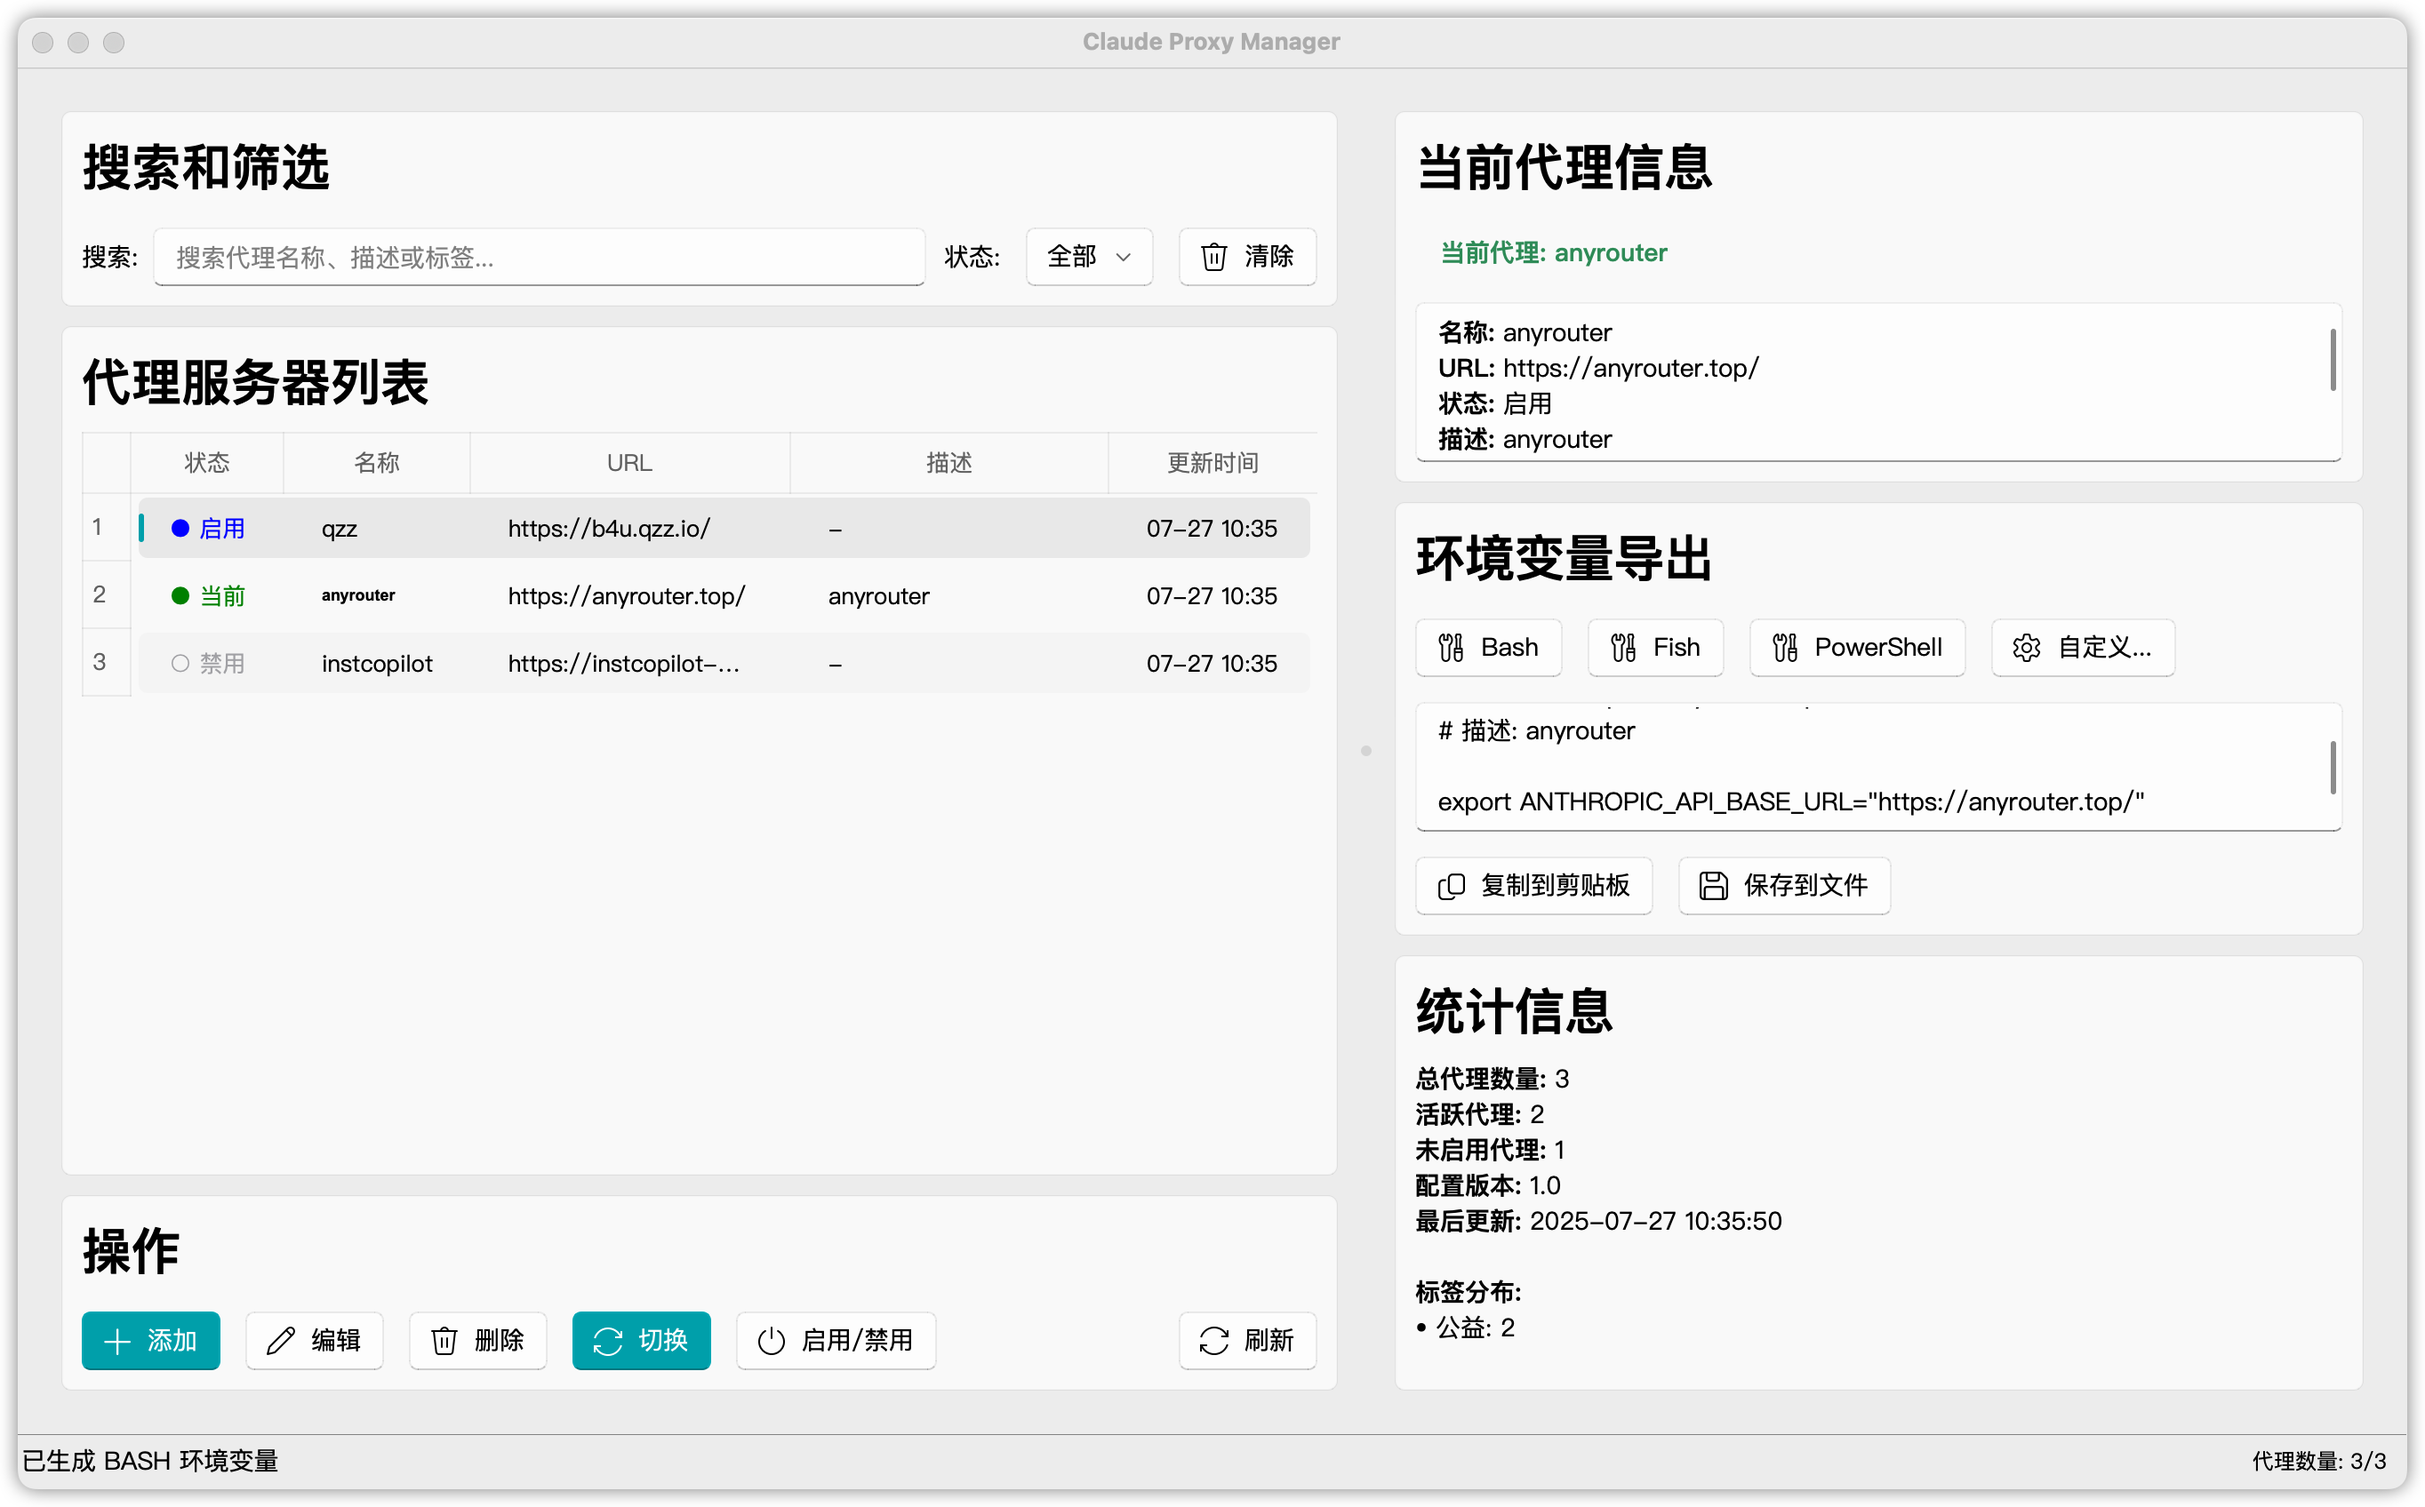
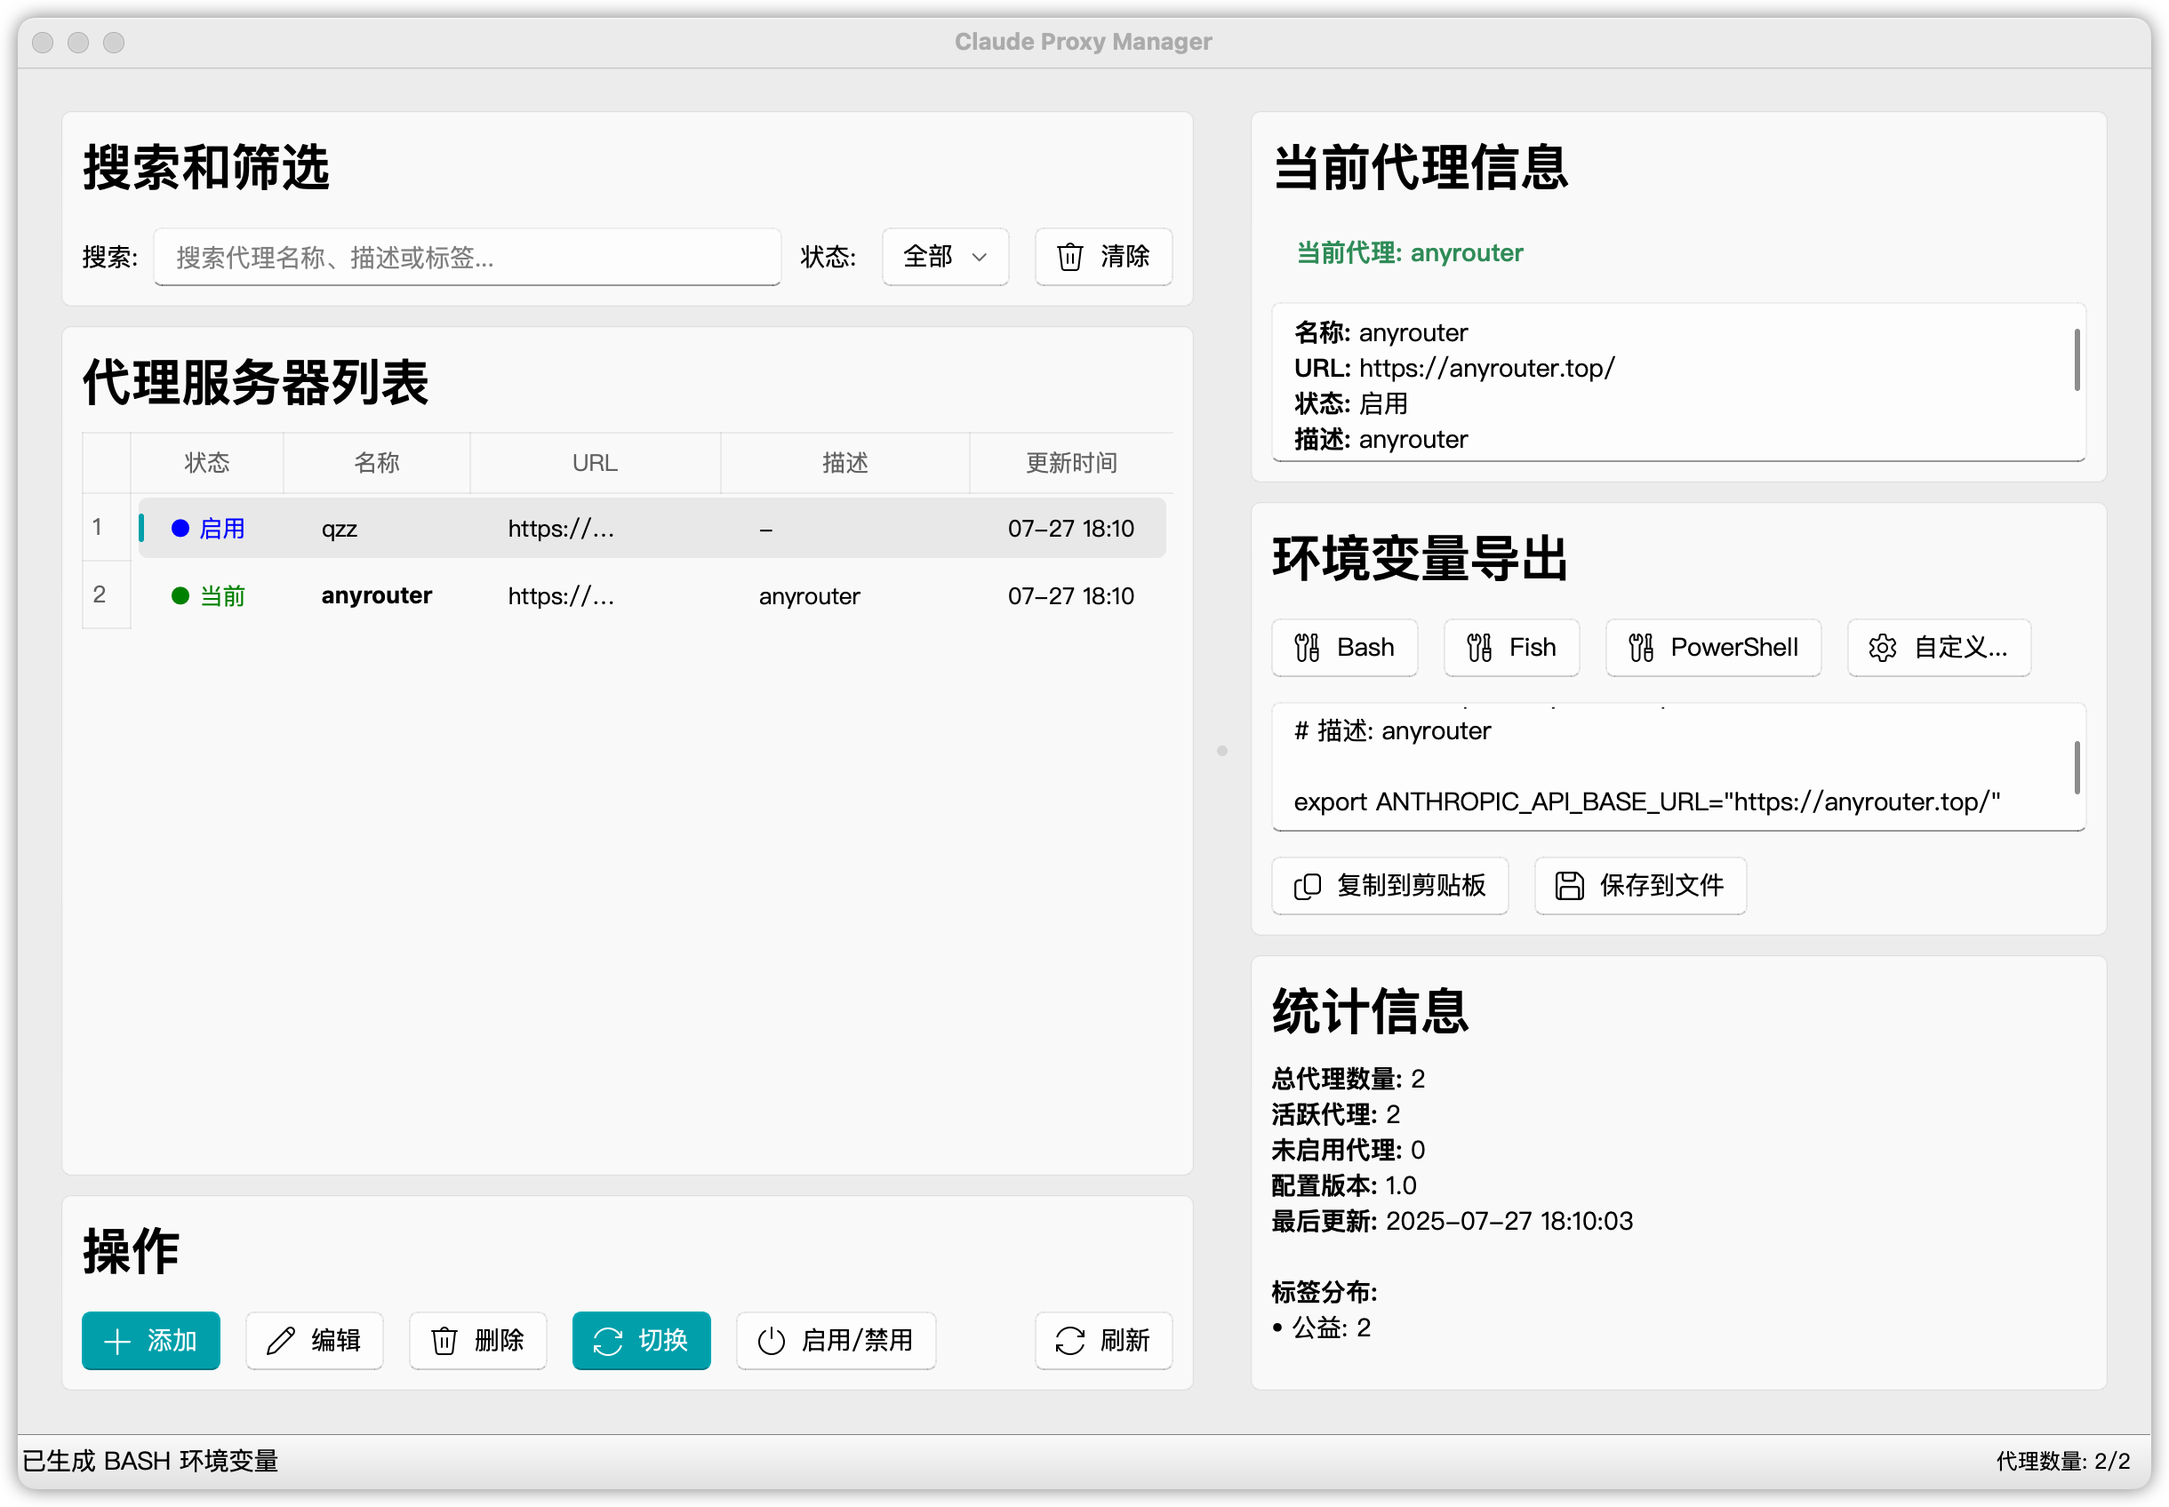
feat: add font settings to proxy table

diff --git a/claudewarp/gui/main_window.py b/claudewarp/gui/main_window.py
@@ -216,6 +216,13 @@ class MainWindow(QMainWindow):
         self.proxy_table.setSelectionBehavior(TableWidget.SelectRows)
         self.proxy_table.setSelectionMode(TableWidget.SingleSelection)
         self.proxy_table.setSortingEnabled(True)
+        
+        # 设置统一的表格字体
+        table_font = QFont()
+        table_font.setFamily("")  # 使用系统默认字体族
+        table_font.setPointSize(-1)  # 使用系统默认字体大小
+        table_font.setWeight(QFont.Normal)  # 默认字重
+        self.proxy_table.setFont(table_font)
 
         # 设置列宽
         header = self.proxy_table.horizontalHeader()
@@ -558,8 +565,11 @@ class MainWindow(QMainWindow):
 
                 # 名称
                 name_item = QTableWidgetItem(name)
+                # 当前代理使用粗体，其他使用默认字体
                 if name == current_name:
-                    name_item.setFont(QFont("Arial", 9, QFont.Bold))
+                    font = name_item.font()
+                    font.setWeight(QFont.Bold)
+                    name_item.setFont(font)
                 self.proxy_table.setItem(row, 1, name_item)
 
                 # URL
